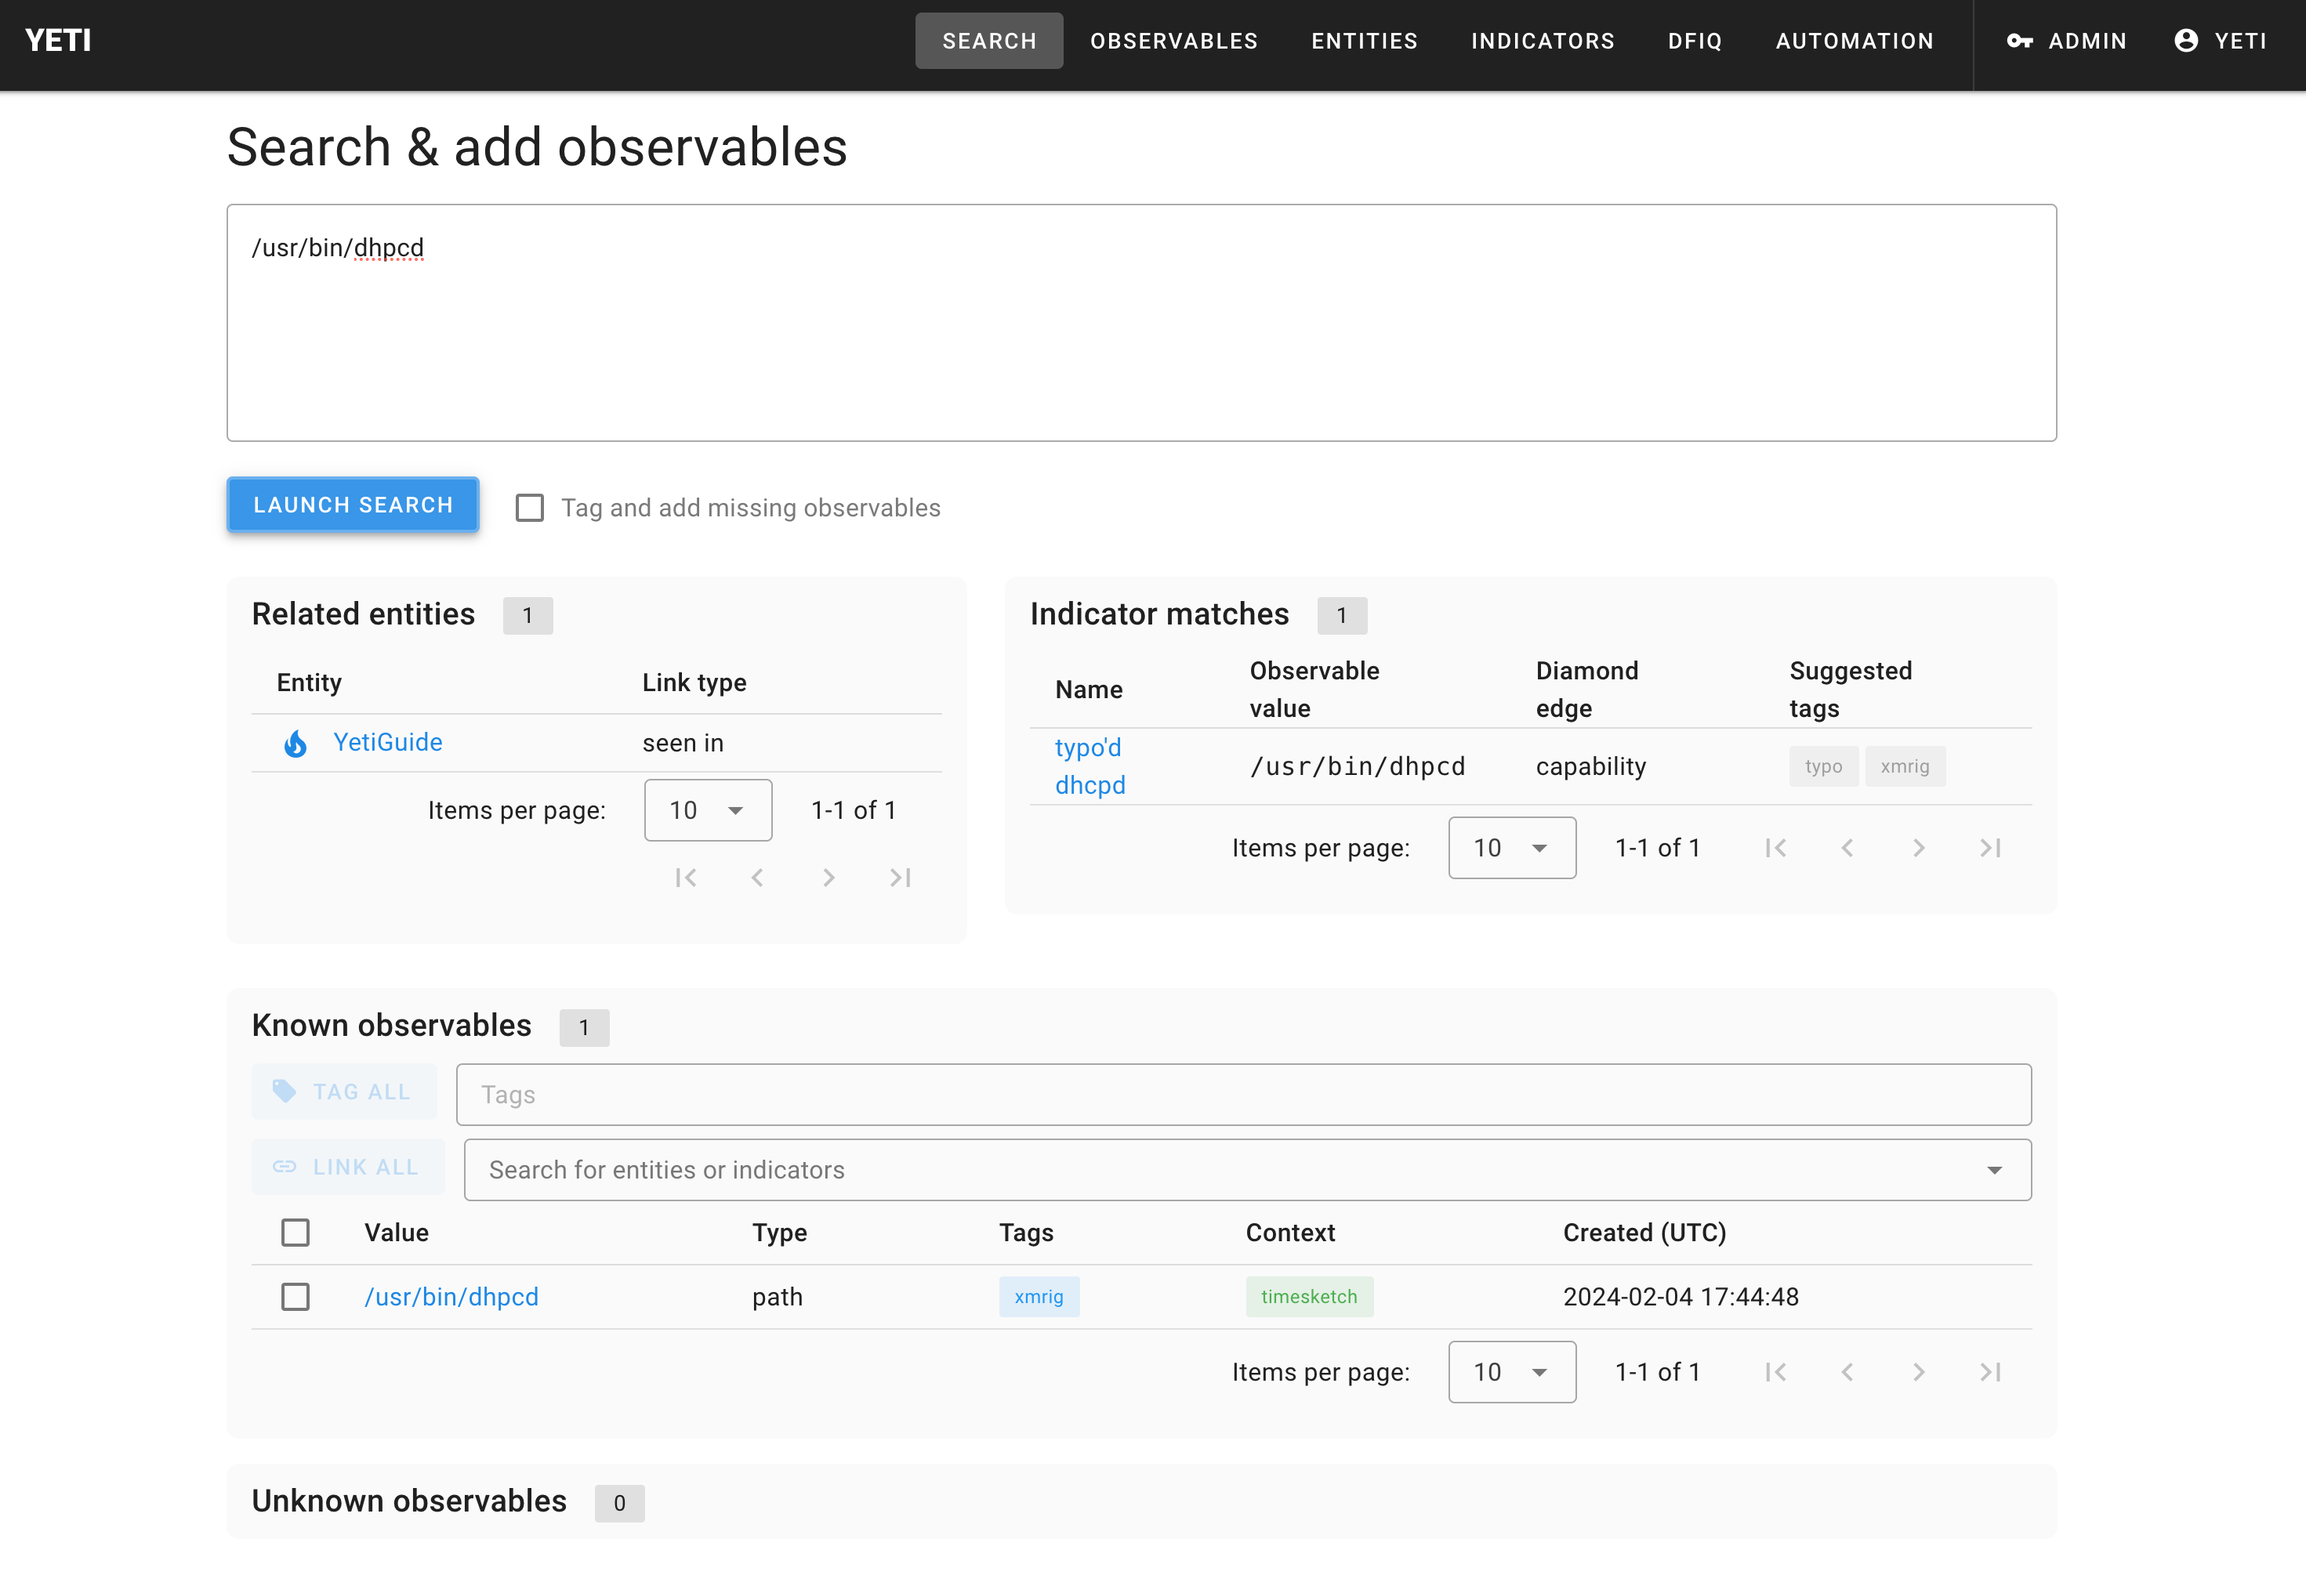
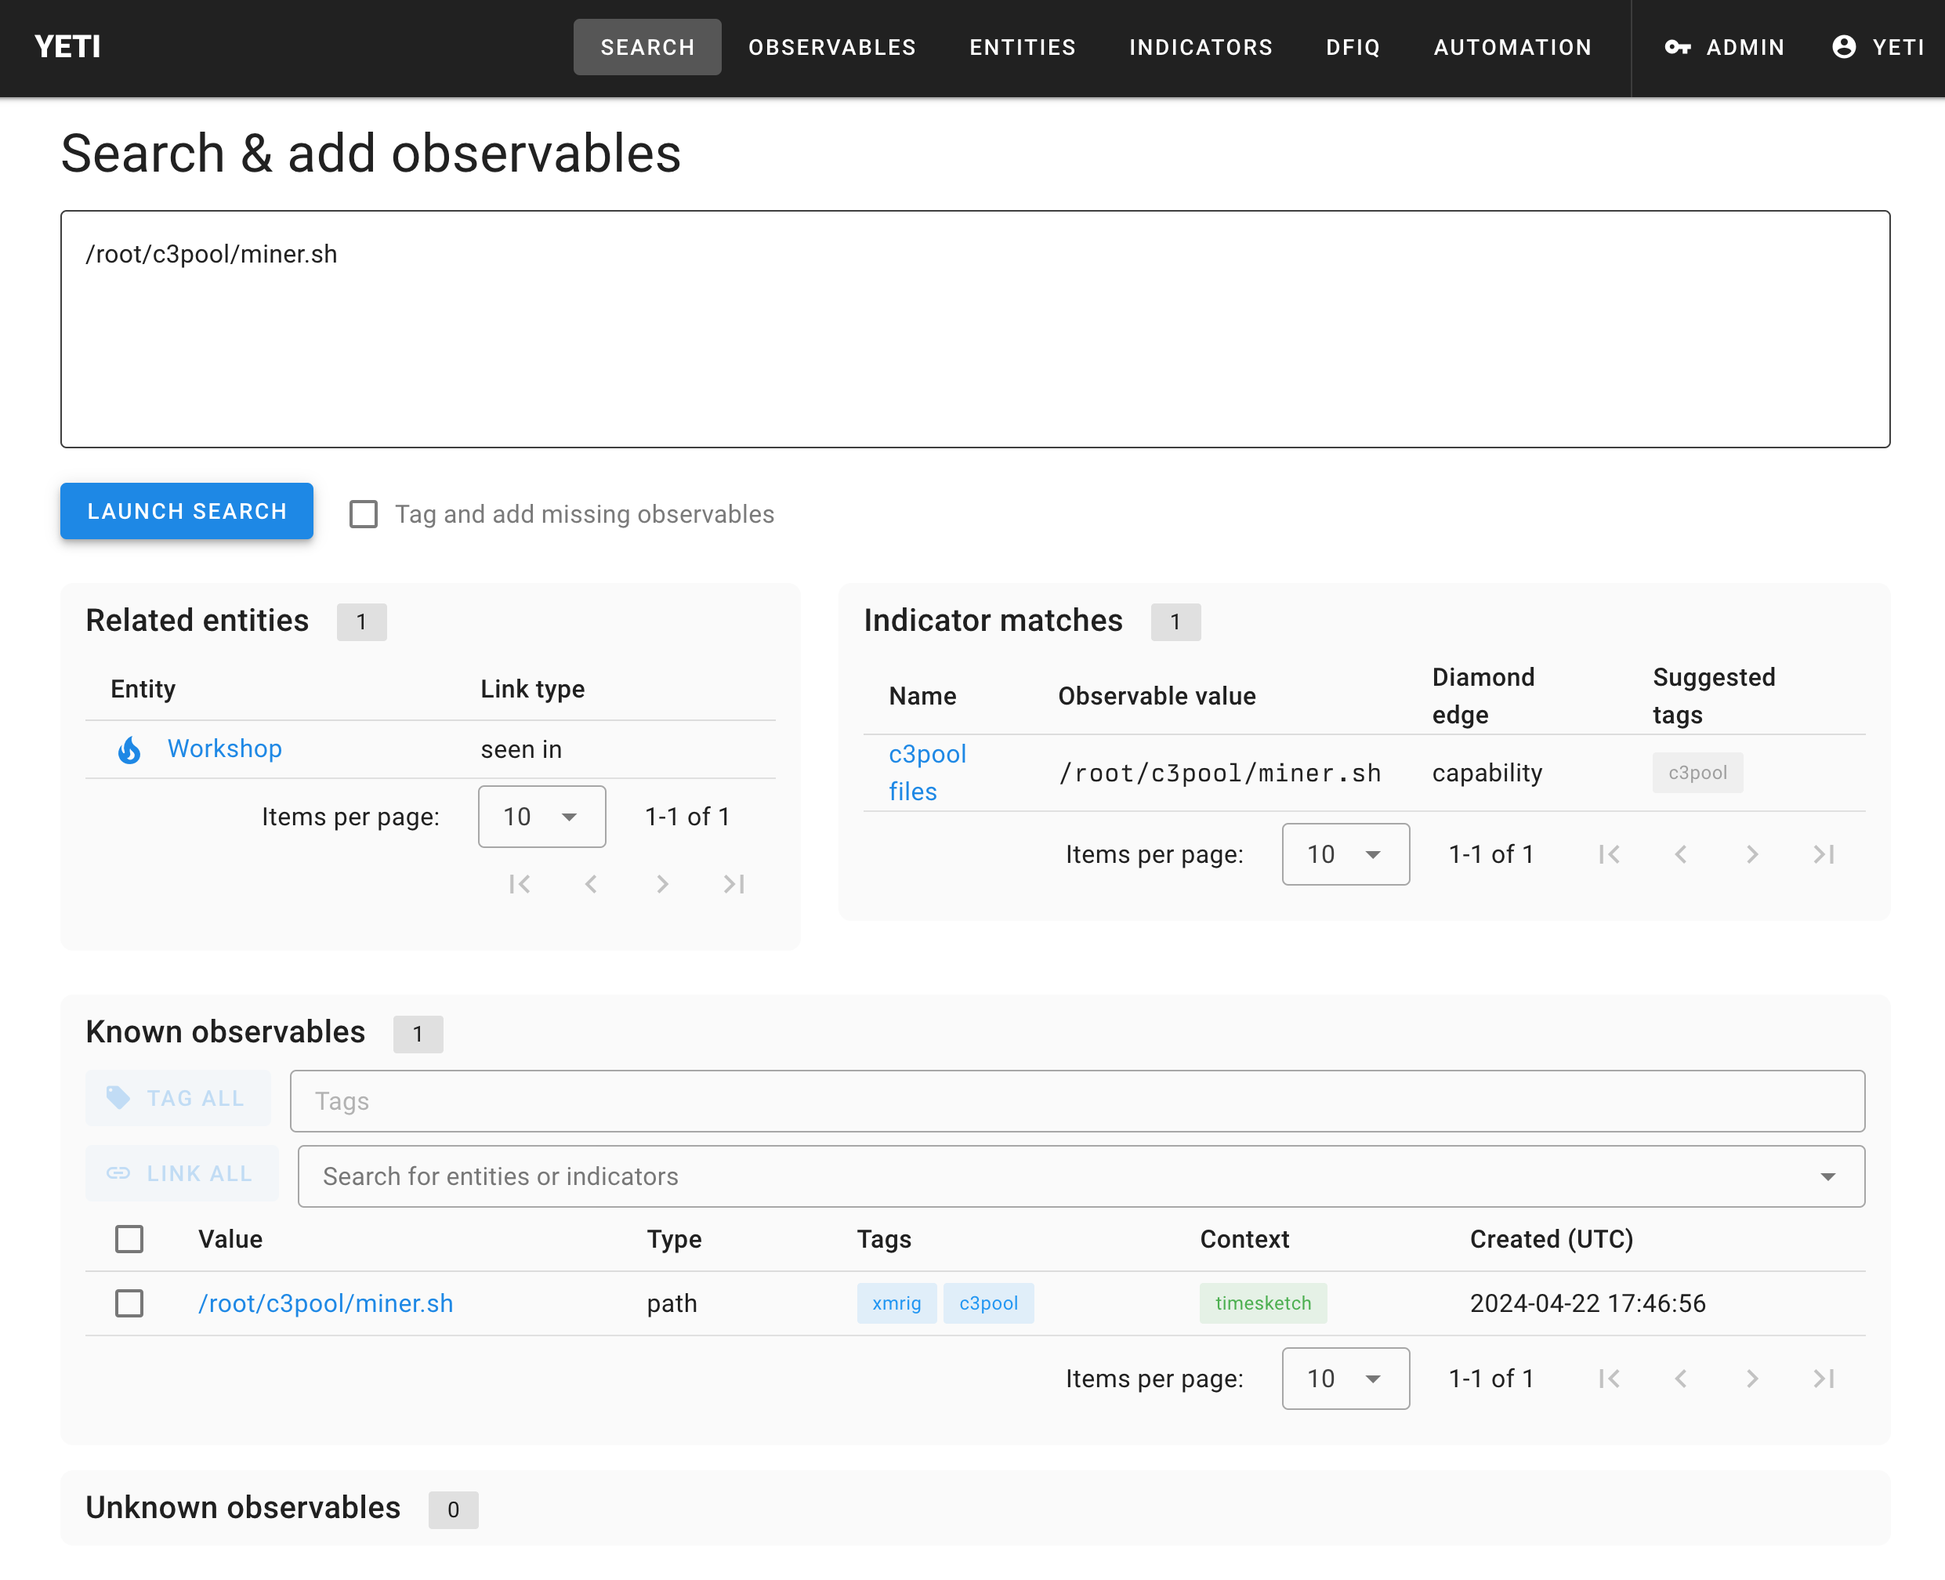
Update screenshots and steps

diff --git a/content/guides/indicators-timesketch/investigation.md b/content/guides/indicators-timesketch/investigation.md
@@ -124,14 +124,13 @@ Fortunately, there is a simple Timesketch analyzer that can extract these fields
 and tag events with its contents.
 
 Click on the "+" next to "**Analyzer results**" on the left hand side of the
-page. In the search bar, select the PlasoHasherTask timeline (you can select
-other timelines as well, but they don't have that field set, so running the
-analyzer on those will have no effect and will unnecessarily consume resources).
+page. In the search bar, select all timelines (you could filter out the
+timelines that do not contain these attributes to save some resources.)
 
 **Search for the "Tagger" analyzer**, and click on the Play button next to it.
 The analyzer takes a few seconds to run, and you'll see "**Analyzer results
 (1)**" on the left hand side of the screen. Click through Analyzer results →
-Tagger → PlasoHasherTask to see all results:
+Tagger to see all results:
 
 ![](screenshots/screen4.png)
 
@@ -154,8 +153,13 @@ this investigation)
 ## Run the Yeti analyzer
 
 Repeat the process for running analyzers, but this time select all available
-timelines. Head down to the "Yeti CTI indicators" analyzer and click the Play
-button. After a few seconds, you should see this:
+timelines. Head down to the "Yeti forensics triage indicators" analyzer and
+click the Play button.
+
+This analyzer will focus on Yeti's triage entities, unroll the graph of
+indicators linked to them, and search for those indicators in your sketch.
+
+After a few seconds, you should see this:
 
 ![](screenshots/an.png)
 
@@ -212,11 +216,11 @@ As an investigator, this kind of work is good because then CTI teams can
 capitalize on this and disseminate that intelligence to other teams (or future
 you when you run into a similar case again)
 
-## Importing intelligence into Yeti
+## Importing and documenting CTI in Yeti
 
-Head to Yeti, then "Automation" in the menubar, then "Feeds". Scroll down to
-where you can see the Timesketch feed, enable it, and click on the refresh icon
-to run it. After a few seconds, it should look like this:
+Head to Yeti, then "Automation" in the menu bar, then "Feeds". Search for the
+Timesketch feed, enable it, and click on the refresh icon to run it. After a few
+seconds, it should look like this:
 
 ![](screenshots/timesketch-feed-yeti.png)
 
@@ -232,47 +236,60 @@ Your reverse engineering of the sample, as well as the tags provided by the
 forensic analyst, tells you that this is xmrig, a common cryptominer. Time to
 document this.
 
-**Create a new entity of type Malware:**
+### Create a new Malware entity
 
 - Name: `xmrig`
 - Family: `cryptominer`
 - Aliases: Optional.
 - Description: Optional.
 
-You also want to document the dropped filename (notice the typo: `dhpcd` instead
-of `dhcpd`) as you think it can be a quick win for analysts that may run into
-similarly compromised systems.
+You also want to document the dropped filenames in Yeti so that they can get
+quickly flagged by an analyst running into similarly compromised systems. What
+you choose to document is really up to you, but one interesting pattern is to
+look for is filesystem entries that contain `c3pool`.
 
-**Add an indicator of type regex:**
+### Create a new regex Indicator
 
-- Name: `typo'd dhcpd`
-- Pattern: `(/[a-z]+)+/dhpcd`
+- Name: `c3pool files`
+- Pattern: `(/[a-z0-9]+)+/c3pool/[^/]+`
 - Location: `filesystem`
-- Relevant tags: `typo`
+- Relevant tags: `c3pool`
 - Diamond model: `capability`
 
-Save it, then link it to the xmrig entity you just created. You should have
-something like this.
+### Link the two obejcts
 
-![](screenshots/typo-with-link.png)
+The way the Timesketch analyzer looks for malware indicators is similar to the
+triage indicators, except it will start with entities of type "malware" (no
+matter what they're tagged with). We still need to link the malware entity to
+its appropriate indicator, so head to the xmrig page and use the "Link object"
+button to link it to your freshly created indicator.
 
-Try it out! Re-run the Timesketch Yeti analyzer, and see if it produced any new
-tags on your sketch.
+You should have something like this
+
+![](screenshots/xmrig-with-link.png)
+
+### Run the analyzer
+
+Try it out! Head back to your sketch and this time run the
+`Yeti CTI malware indicators` analyzer, and see if it produced any new tags on
+your sketch.
 
 ![](screenshots/screen11.png)
 
 Click on the xmrig tag, or go through the saved search, and you'll find many
-other goodies such as cronjobs that are related to your investigation. You'll
-see that the intelligence page has been populated with new findings (mostly the
-filesystem paths to the weird dhpcd binary)
+other goodies such as bash files that are related to your investigation.
+**You'll see that the intelligence page has been populated with new findings**
+(mostly the filesystem paths to the `c3pool` directory). At this point, you can
+try re-running the Timesketch feed in Yeti to import those elements.
 
 Finally, now that you have some good documentation, imagine you're someone who
-comes across this weird dhpcd binary, and you want to know if it's been seen
+comes across this weird c3pool directory, and you want to know if it's been seen
 before. Head to the Yeti Search page, and paste the typo'd path in the search
 box:
 
 ![](screenshots/match-screenshot.png)
 
+<!--
 ## Some tips in case you get stuck (spoilers ahead!)
 
 ### Analysis of plaso files
@@ -343,4 +360,4 @@ See search results → dhcpd typo
 ### Leveraging Yeti from Timesketch
 
 Run Yeti analyzer, look at all the tagged events, star the ones we think are
-interesting.
+interesting. -->
